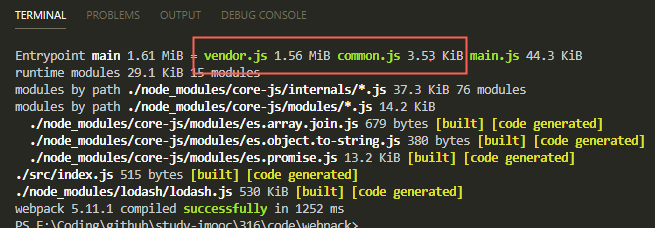
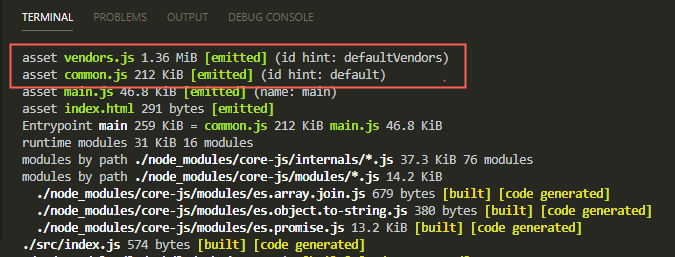
更新 README.md

diff --git a/316/README.md b/316/README.md
@@ -1054,8 +1054,10 @@ production 环境默认开启 Tree Shaking 。
      })
    }
    
-   component().then(elem => {
-     document.body.appendChild(elem)
+   document.addEventListener('click', () => {
+     component().then(elem => {
+       document.body.appendChild(elem)
+     })
    })
    ```
 
@@ -1106,24 +1108,27 @@ production 环境默认开启 Tree Shaking 。
          // async ：异步 chunk ，只处理异步导入的文件
          // initial ：入口 chunk ，不处理异步导入的文件
          chunks: 'all',
+         minSize: 0,
+         minRemainingSize: 0,
+         minChunks: 1, // 当一个模块被引用至少一次才进行代码分割
+         maxAsyncRequests: 30, // 同时加载的模块数最多是 30
+         maxInitialRequests: 30, // 入口文件引入的库最多分割出 30 个
+         enforceSizeThreshold: 50000,
          // 缓存分组
          cacheGroups: {
-           // 第三方模块
-           vendor: {
-             name: 'vendor',
-             priority: 1, // 权限更高，有限抽离，重要！！！
+           defaultVendors: {
              test: /[\\/]node_modules[\\/]/,
-             minSize: 0, // 大小限制
-             minChunks: 1, // 最少复用几次
-             reuseExistingChunk: true // 如果模块被打包过，就使用之前打包过的模块
+             priority: -10,
+             reuseExistingChunk: true, // 如果一个模块已经被打包了，再打包会忽略这个模块
+             chunks: 'async',
+             filename: 'vendors.js'
            },
-           // 公共的模块
-           common: {
-             name: 'common',
-             priority: 0,
-             minSize: 0,
-             minChunks: 1, // 公共模块最少复用几次
-             reuseExistingChunk: true
+           default: {
+             minChunks: 1,
+             priority: -20,
+             reuseExistingChunk: true,
+             chunks: 'initial',
+             filename: 'common.js'
            }
          }
        }
@@ -1135,3 +1140,10 @@ production 环境默认开启 Tree Shaking 。
 
    ![Code Splitting 配置 splitChunks](https://raw.githubusercontent.com/negrochn/study-imooc/master/316/img/Code%20Splitting%20%E9%85%8D%E7%BD%AE%20splitChunks.png)
 
+
+
+### Lazy Loading 懒加载，Chunk 是什么？
+
+Lazy Loading ，是用 import() 来异步按需加载模块，这样能让页面加载更快。
+
+chunk ，指的是项目打包完成后 dist 文件夹下有几个 JS 文件，每个 JS 文件都是 chunk 。
